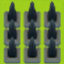
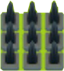
添加栅栏

diff --git a/Game3D01/src/game/GameMap0.ts b/Game3D01/src/game/GameMap0.ts
@@ -56,26 +56,36 @@ export default class GameMap0 extends Laya.Sprite{
                 var ww = GameBG.ww;
                 var x = i * ww;//- (ww/2);
                 var y = j * ww;
-                if( k < GameBG.arr0.length && (
-                    GridType.isWall(GameBG.arr0[k]) 
-                || GridType.isRiverPoint(GameBG.arr0[k]) 
-                || GridType.isRiverScale9Grid(GameBG.arr0[k]) 
-                || GridType.isRiverRow(GameBG.arr0[k]) 
-                || GridType.isRiverCol(GameBG.arr0[k]) 
-                || GridType.isRiverPoint(GameBG.arr0[k]) 
-                // || GridType.isThorn(GameBG.arr0[k])  
-                )){
-                     let key = GameBG.arr0[k];
-                     if(this.map[key]){
-                         hb = this.map[key];
-                         //hb.setVV(hb.x,hb.y,x + GameBG.ww - hb.x, y + GameBG.ww - hb.y);
-                         hb.setRq(hb.x,hb.y,x + GameBG.ww - hb.x,y + GameBG.ww - hb.y);
-                     }else{
-                        hb = new GameHitBox(GameBG.ww,GameBG.ww);
-                        hb.setXY(x,y);
-                        this.Wharr.push(hb);
-                        this.map[key] = hb;
+                let key:number = GameBG.arr0[k];
+                if( k < GameBG.arr0.length){
+                    if(GridType.isWall(key)  
+                    || GridType.isRiverPoint(key) 
+                    || GridType.isRiverScale9Grid(key) 
+                    || GridType.isRiverRow(key) 
+                    || GridType.isRiverCol(key) 
+                    || GridType.isRiverPoint(key) )
+                    {
+                        if(this.map[key]){
+                            hb = this.map[key];
+                            hb.setRq(hb.x,hb.y,x + GameBG.ww - hb.x,y + GameBG.ww - hb.y);
+                        }else{
+                           hb = new GameHitBox(GameBG.ww,GameBG.ww);
+                           hb.setXY(x,y);
+                           this.Wharr.push(hb);
+                           this.map[key] = hb;
+                       }
                     }
+                     else if(GridType.isFence(key) ){
+                        if(this.map[key]){
+                            hb = this.map[key];
+                            hb.setRq(hb.x - 64,hb.y,x + GameBG.ww * 3 - hb.x,y + GameBG.ww - hb.y);
+                        }else{
+                           hb = new GameHitBox(GameBG.ww * 3,GameBG.ww);
+                           hb.setXY(x,y);
+                           this.Wharr.push(hb);
+                           this.map[key] = hb;
+                       }
+                     }
                 }
                 k++;
             }
@@ -90,17 +100,33 @@ export default class GameMap0 extends Laya.Sprite{
                 var ww = GameBG.ww;
                 var x = i * ww;//- (ww/2);
                 var y = j * ww;
-                if( k < GameBG.arr0.length && (GridType.isWall(GameBG.arr0[k]))){
+                if( k < GameBG.arr0.length){
                     let key = GameBG.arr0[k];
-                    if(this.Amap[key]){
-                        hb = this.Amap[key];
-                        hb.setVV(hb.x,hb.y,x + GameBG.ww - hb.x, y + GameBG.ww - hb.y);
-                    }else{
-                        hb = new GameHitBox(GameBG.ww,GameBG.ww);
-                        hb.setXY(x,y);
-                        this.Aharr.push(hb);
-                        this.Amap[key] = hb;
+                    if(GridType.isWall(GameBG.arr0[k]))
+                    {
+                        if(this.Amap[key]){
+                            hb = this.Amap[key];
+                            hb.setVV(hb.x,hb.y,x + GameBG.ww - hb.x, y + GameBG.ww - hb.y);
+                        }else{
+                            hb = new GameHitBox(GameBG.ww,GameBG.ww);
+                            hb.setXY(x,y);
+                            this.Aharr.push(hb);
+                            this.Amap[key] = hb;
+                        }
                     }
+                    else if(GridType.isFence(GameBG.arr0[k]))
+                    {
+                        if(this.map[key]){
+                            hb = this.map[key];
+                            hb.setRq(hb.x - 64,hb.y,x + GameBG.ww * 3 - hb.x,y + GameBG.ww - hb.y);
+                        }else{
+                           hb = new GameHitBox(GameBG.ww * 3,GameBG.ww);
+                           hb.setXY(x,y);
+                           this.Wharr.push(hb);
+                           this.map[key] = hb;
+                       }
+                    }
+                   
                 }
                 k++;
             }

diff --git a/Game3D01/src/script/GameUI2.ts b/Game3D01/src/script/GameUI2.ts
@@ -50,34 +50,18 @@ export default class GameUI2 extends ui.test.TestSceneUI {
             material.albedoTexture = tex;
         }));
 
-        //屏幕中心线
-        // var sp2d:Laya.Sprite = new Laya.Sprite();
-        // Laya.stage.addChild(sp2d);
-        // sp2d.graphics.drawLine(Laya.stage.width/2,0,Laya.stage.width/2,Laya.stage.height,"#ff0000");
-        // sp2d.graphics.drawLine(0,Laya.stage.height/2,Laya.stage.width,Laya.stage.height/2,"#ff0000");
-
         var map0: GameMap0 = new GameMap0();
         map0.drawMap();
-        // Laya.stage.addChild(map0);        
+        Laya.stage.addChild(map0);        
         Game.map0 = map0;
         Game.updateMap();
         this.heroUrl = "h5/ToonSkeletons/ToonSkeletons.lh";
         // this.heroUrl = "h5/hero/hero.lh";
-        Laya.loader.create(["h5/ToonRockGolem/ToonSkeletons.lh", this.heroUrl, "h5/ArrowBlue/ToonSkeletons.lh", "h5/maozi/hero.lh", "h5/wall/wall.lh"], Laya.Handler.create(this, this.onComplete))
+        Laya.loader.create(["h5/ToonRockGolem/ToonSkeletons.lh", this.heroUrl, "h5/ArrowBlue/ToonSkeletons.lh", "h5/maozi/hero.lh", "h5/wall/wall.lh", "h5/zhalan/hero.lh"], Laya.Handler.create(this, this.onComplete))
 
     }
 
     private heroUrl: string;
-
-    getBox(): Laya.Sprite3D {
-        if (Game.box == null) {
-            Game.box = new Laya.MeshSprite3D(Laya.PrimitiveMesh.createBox(1, 1, 2)) as Laya.MeshSprite3D;
-        }
-        var box: Laya.MeshSprite3D;
-        box = Game.layer3d.addChild(Laya.Sprite3D.instantiate(Game.box)) as Laya.MeshSprite3D;
-        box.meshRenderer.material = Game.material_blinn;
-        return box;
-    }
 
     getMonster(): GamePro {
         var sp = Laya.Sprite3D.instantiate(Game.e0_.sp3d);
@@ -96,15 +80,29 @@ export default class GameUI2 extends ui.test.TestSceneUI {
         var aa = Laya.loader.getRes("h5/wall/wall.lh");
         Game.box = aa;
 
+        var aa = Laya.loader.getRes("h5/zhalan/hero.lh");
+        Game.fence = aa;
+
         let k: number = 0;
         for (let j = 0; j < GameBG.hnum; j++) {
             for (let i = 0; i < GameBG.wnum + 1; i++) {
                 //console.log(i,j);
-                if (k < GameBG.arr0.length && (GridType.isWall(GameBG.arr0[k]) || (GameBG.arr0[k] == 1))) {
-                    let v3 = GameBG.get3D(i, j);
-                    let box:Laya.Sprite3D = Laya.Sprite3D.instantiate(Game.box);
-                    box.transform.translate(v3);
-                    Game.layer3d.addChild(box)
+                let type:number = GameBG.arr0[k];
+                if (k < GameBG.arr0.length) {
+                    if((GridType.isWall(type) || (type == 1)))
+                    {
+                        let v3 = GameBG.get3D(i, j);
+                        let box:Laya.Sprite3D = Laya.Sprite3D.instantiate(Game.box);
+                        box.transform.translate(v3);
+                        Game.layer3d.addChild(box)
+                    }
+                    else if(GridType.isFence(type))
+                    {
+                        let v3 = GameBG.get3D(i, j);
+                        let box:Laya.Sprite3D = Laya.Sprite3D.instantiate(Game.fence);
+                        box.transform.translate(v3);
+                        Game.layer3d.addChild(box)
+                    }
                 }
                 k++;
             }

diff --git a/Game3D01/src/game/GameBG.ts b/Game3D01/src/game/GameBG.ts
@@ -208,17 +208,18 @@ export default class GameBG extends Laya.Sprite {
                 //     this.addChild(sp);
                 //     this.sp = sp;
                 // }
-
+                var grid:Image = new Image();
                 if (GridType.isRiverPoint(gType)) {
-                    img.skin = 'bg/100.png';
+                    grid.skin = 'bg/100.png';
                 }
                 else if (GridType.isThorn(gType)) {
-                    img.skin = 'bg/500.png';
+                    grid.skin = 'bg/500.png';
                 }
                 else if (GridType.isRiverScale9Grid(gType) || GridType.isRiverRow(gType) || GridType.isRiverCol(gType)) {
                     gType = Math.floor(gType / 100) * 100 + gType % 10;
-                    img.skin = 'bg/' + gType + '.png';
+                    grid.skin = 'bg/' + gType + '.png';
                 }
+                img.addChild(grid);
                 k++;
             }
         }

diff --git a/Game3D01/src/game/Game.ts b/Game3D01/src/game/Game.ts
@@ -34,8 +34,11 @@ export default class Game{
     static bg:GameBG;
     //贴图材质
     static material_blinn:Laya.BlinnPhongMaterial;
-    
+    //墙块
     static box:Laya.Sprite3D;
+
+    //栅栏
+    static fence:Laya.Sprite3D;
 
     static bullet:Laya.MeshSprite3D;
     //摇杆

diff --git a/Game3D01/src/game/bg/GridType.ts b/Game3D01/src/game/bg/GridType.ts
@@ -33,5 +33,10 @@ export default class GridType {
     {
         return type>=600 && type<700;
     }
+    /**是否是栅栏 */
+    public static isFence(type:Number):boolean
+    {
+        return type>=700 && type<800;
+    }
 
 }
